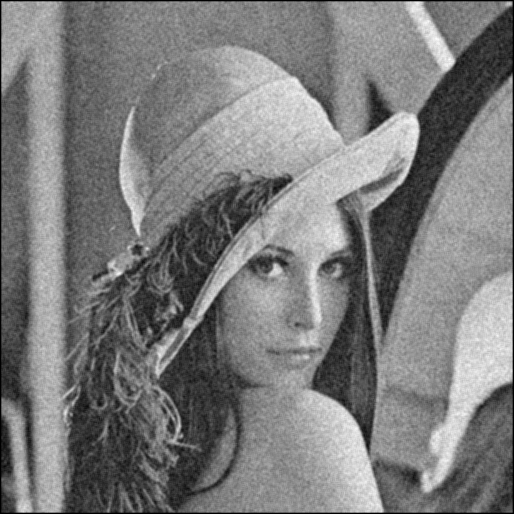
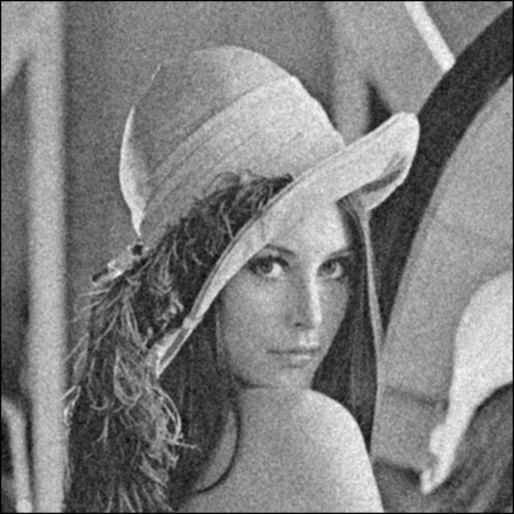
separated box and gaussian ui

diff --git a/image_denoising.py b/image_denoising.py
@@ -55,14 +55,12 @@ def create_gaussian_filter(sigma):
 def apply_gaussian_filter(im, pad, g):
     im_height = im.shape[0]
     im_width = im.shape[1]
-    im_gaussian_filtered = []
-    for y in range(im_height):
-        im_temp_y = np.copy(im)
-        im_temp_y = np.roll(im_temp_y, y - 1)
-        for x in range(im_width):
-            im_temp_x = np.copy(im_temp_y)
-            im_temp_x = np.roll(im_temp_x, x - 1) * g[y,x]
-            im_gaussian_filtered.append(im_temp_x)
+    im_box_filtered = im.copy()
+    for y in np.arange(pad, im_height - pad):
+        for x in np.arange(pad, im_width - pad):
+            sliding_window = im[y - pad: y + pad + 1, x - pad:x + pad + 1]
+            filtered_pixel = (sliding_window * g).sum()
+            im_box_filtered[y,x] = filtered_pixel
     return im_box_filtered
 
 """

diff --git a/user_input.py b/user_input.py
@@ -17,11 +17,19 @@ def next_odd_integer(n):
 # Get box filter size, either from user or default with bad user input
 def get_box_filter_size():
     try:
-        box_filter_size = float(input("Set size of box and Gaussian filters (default: 3): "))
+        box_filter_size = float(input("Set size of box filter (default: 3): "))
         box_filter_size = next_odd_integer(box_filter_size)
     except ValueError:
         box_filter_size = 3
     return int(box_filter_size)
+
+# Get Gaussian sigma from user
+def get_gaussian_sigma():
+    try:
+        gaussian_sigma = float(input("Set size of Gaussian sigma (default: 3): "))
+    except ValueError:
+        gaussian_sigma = 3
+    return int(gaussian_sigma)
 
 # Get a list of three floats between 0 and 1 from user, for noise sigma
 def get_sigmas():

diff --git a/denoise.py b/denoise.py
@@ -17,7 +17,9 @@ sigmas = ui.get_sigmas()
 
 # Get user-defined box filter size, round to nearest odd integer; report back
 box_filter_size = ui.get_box_filter_size()
-print("Filter sizes set to " + str(box_filter_size))
+print("Box filter size set to " + str(box_filter_size))
+gaussian_sigma = ui.get_gaussian_sigma()
+print("Gaussian distance set to " + str(gaussian_sigma))
 pad = denoise.calculate_pad(box_filter_size)
 print("Padding set to " + str(pad))
 
